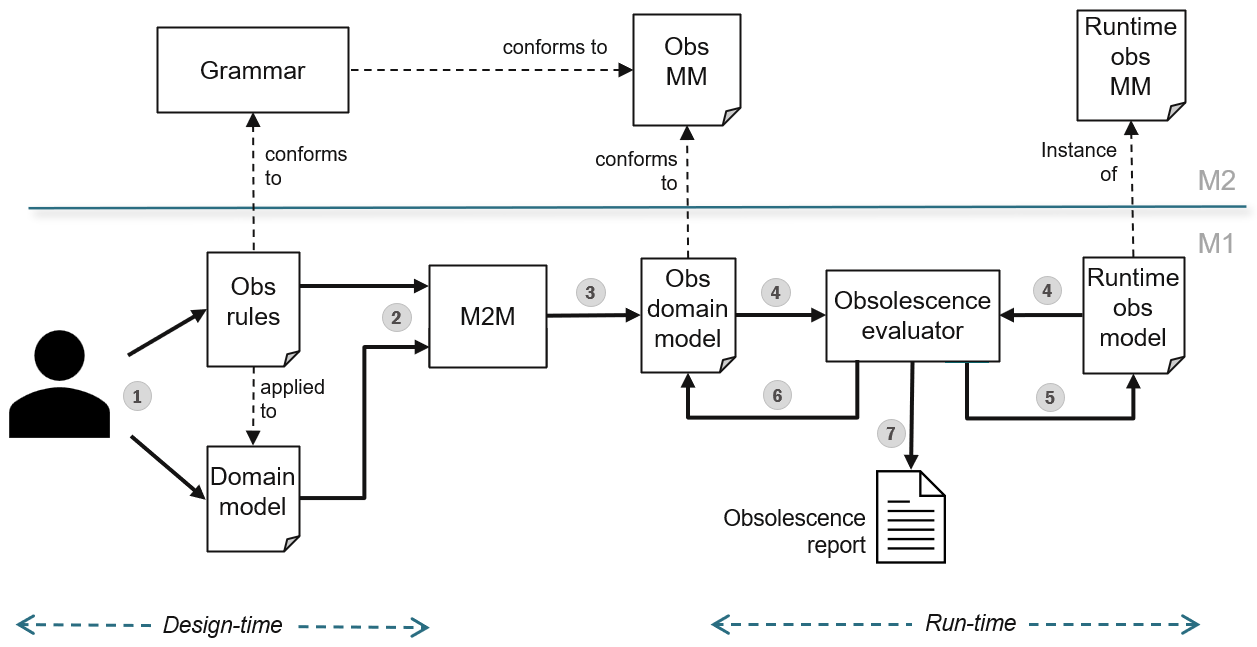
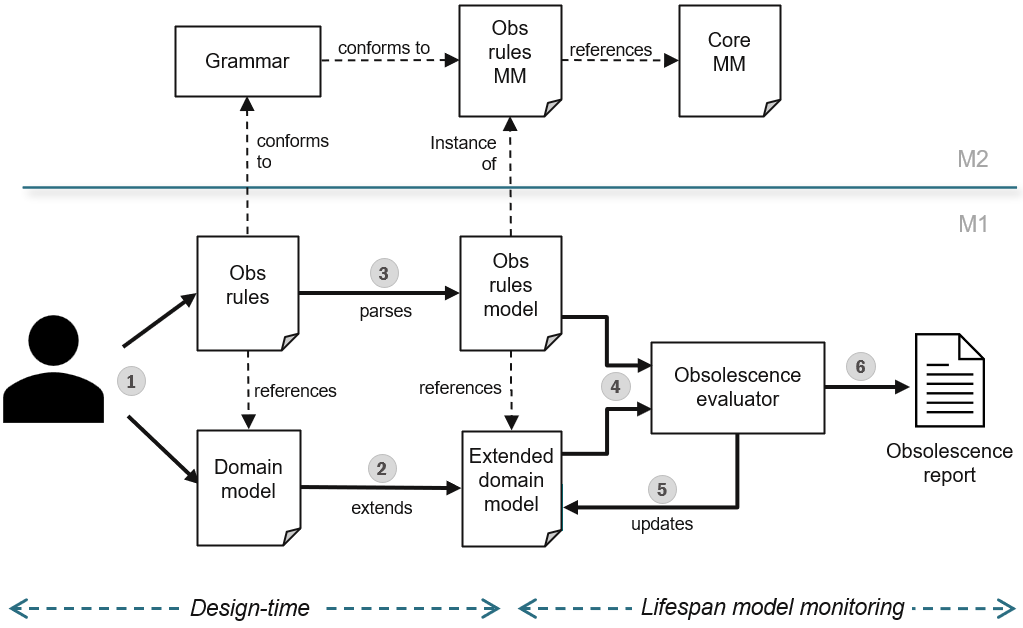
Update README

diff --git a/README.md b/README.md
@@ -1,7 +1,7 @@
 # Modeling and evaluation of model obsolescence
-This repository hosts a DSL (grammar) and a runtime evaluator (implemented in Python) to identify model obsolescence.
+This repository hosts a DSL (grammar) and an obsolescence evaluator (implemented in Python) to identify model obsolescence.
 
-Our model-based approach is described in the following figure: at design-time, you can specify how sensitive to obsolescence are the models (using our grammar) and periodically validate (at run-time) the obsolescence of that models and their internal elements.
+Our model-based approach is described in the following figure: at design-time, you can specify how sensitive to obsolescence are the models (using our grammar) and periodically validate (in the lifespan model monitoring stage) the obsolescence of that models and their internal elements.
 
 <img src="/img/approach.png" alt="Approach Overview" style="height: 90%; width:90%;"/>
 
@@ -10,6 +10,16 @@ You can consult our mobility case example, including:
 * The [mobility domain model](https://github.com/BESSER-PEARL/ModelObsolescence/blob/main/img/mobilitycase.png): this domain model was implemented using [BESSER platform](https://github.com/BESSER-PEARL/BESSER). The implementation of the model is here.
 * The [obsolescence rules definition](https://github.com/BESSER-PEARL/ModelObsolescence/blob/main/mobility_case/obsolescence_rules.txt) (using our grammar) applied to the domain model
 * An [obsolescence report](https://github.com/BESSER-PEARL/ModelObsolescence/blob/main/mobility_case/report.pdf) generated by the obsolescence evaluator.
+
+## Running the Mobility Example
+
+To get started with the mobility example, make sure you're using Python 3.9 or higher. Here's a quick guide to set things up:
+
+1. **Create a virtual environment**: It's a good idea to use a virtual environment like `venv` or `conda` to keep things tidy.
+2. **Clone or download this repo**: Grab the code from this repository.
+3. **Install the requirements**: Run `pip install -r requirements.txt` to get all the dependencies.
+4.  **Run the example**: Navigate to the mobility case directory `cd mobility_case` and run the example script `python mobility.py`
+5.  **Check  the  report**:  You  should  find  the  obsolescence  report  as  a  PDF  file  in  the  `report`  folder.
 
 ## License
 
